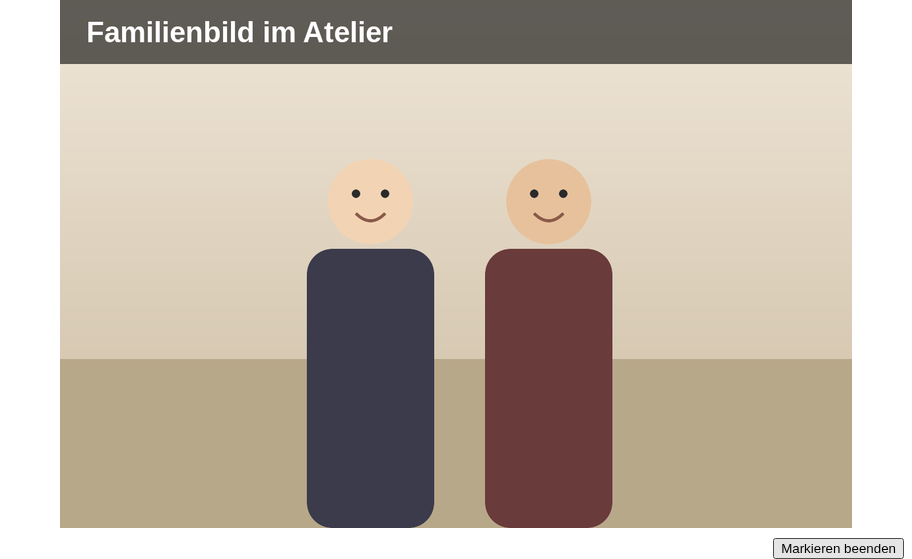
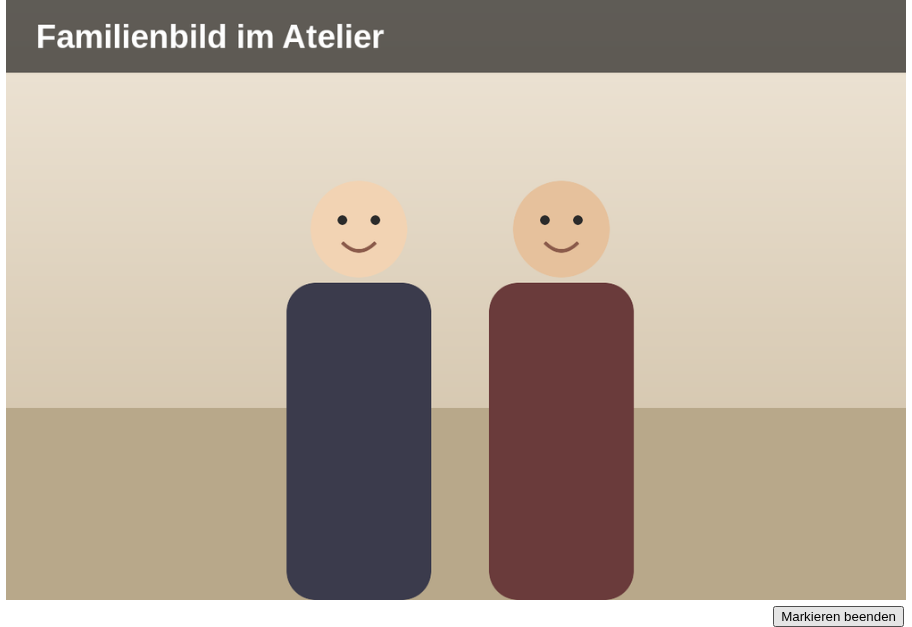
describe the photo page's fit and zoom in the handbook
The modus fit-and-zoom change added the toolbar buttons -, Einpassen,
100 % and +, keys, Ctrl/Cmd + wheel and drag-to-pan. The persons page
gains a section on them and a tagging tip (zoom in for small faces; in
tagging mode only wheel and scrollbars pan). Shots 11, 17 and 18 are
re-shot because the photo page changed; the other re-shot files were
churn and stay as committed.

Changed region(s): [[0.0, 0.0, 1.0, 1.0], [0.4605, 0.4562, 0.5526, 0.9123], [0.3377, 0.3345, 0.4605, 0.4562]]

diff --git a/handbuch/05-personen.html b/handbuch/05-personen.html
@@ -46,6 +46,41 @@
   neu ziehen.
 </p>
 
+<h3>Das Foto vergrößern</h3>
+
+<p>
+  Die Fotoseite zeigt jedes Foto zunächst so groß, dass es die Fläche links neben den Angaben
+  ausfüllt. Kleine Fotos werden dafür hochgerechnet und wirken etwas weich. In der Leiste über
+  dem Foto stehen vier Schaltflächen:
+</p>
+
+<ul>
+  <li>
+    <strong>+</strong> und <strong>-</strong> vergrößern und verkleinern in kleinen
+    Schritten, höchstens bis zur vierfachen Originalgröße.
+  </li>
+  <li>
+    <strong>Einpassen</strong> kehrt zur Ausgangsgröße zurück.
+  </li>
+  <li>
+    <strong>100 %</strong> zeigt das Foto in Originalgröße.
+  </li>
+</ul>
+
+<p>
+  Dasselbe geht mit den Tasten <strong>+</strong>, <strong>-</strong> und <strong>0</strong>
+  (Einpassen) sowie mit gedrückter <strong>Strg</strong>-Taste (auf dem Mac
+  <strong>Cmd</strong>) und dem Mausrad über dem Foto. Ein vergrößertes Foto lässt sich mit
+  gedrückter Maustaste verschieben, mit dem Mausrad oder mit den Bildlaufleisten. Solange es
+  vergrößert ist, blättert ein Klick ins Foto nicht zum nächsten Foto. Die Rahmen der Personen
+  wandern beim Vergrößern mit. Das nächste Foto erscheint wieder eingepasst.
+</p>
+
+<p>
+  Auf einem Tablet oder Smartphone gibt es nur <strong>Einpassen</strong> und
+  <strong>100 %</strong>. Dort wird das Foto wie gewohnt mit zwei Fingern vergrößert.
+</p>
+
 <h3>Eine Person markieren</h3>
 
 <ol>
@@ -74,8 +109,8 @@
     unter der Liste lautet <em>Enter übernimmt - Esc bricht ab</em>.
   </li>
   <li>
-    Der Name steht sofort in der Zeile <strong>Personen</strong> in den Angaben neben dem Foto,
-    vorerst als einfacher Text ohne Verweis. Der Markierungsmodus bleibt offen, das nächste
+    Der Name steht sofort in der Zeile <strong>Personen</strong> in den Angaben rechts neben dem
+    Foto, vorerst als einfacher Text ohne Verweis. Der Markierungsmodus bleibt offen, das nächste
     Gesicht lässt sich gleich markieren.
   </li>
 </ol>
@@ -94,6 +129,14 @@
   <img src="assets/screenshots/19-personen-auswahl.png" alt="Die Auswahl mit dem Eintrag zum Anlegen einer neuen Person" />
   <figcaption>Ein noch unbekannter Name wird über Anlegen "..." neu angelegt.</figcaption>
 </figure>
+
+<div class="hinweis">
+  <p>
+    Ein kleines Gesicht lässt sich genauer markieren, wenn das Foto vorher vergrößert wird. Im
+    Markierungsmodus zieht die gedrückte Maustaste ein Rechteck auf, das vergrößerte Foto lässt
+    sich dann nur mit dem Mausrad oder den Bildlaufleisten verschieben.
+  </p>
+</div>
 
 <div class="hinweis">
   <p>

diff --git a/handbuch/index.html b/handbuch/index.html
@@ -55,7 +55,8 @@
   </li>
   <li>
     <a href="05-personen.html">5. Personen auf Fotos markieren</a><br />
-    Ein Rechteck über ein Gesicht ziehen, die Person benennen und nach Personen suchen.
+    Markierungen ansehen, das Foto vergrößern, ein Rechteck über ein Gesicht ziehen, die Person
+    benennen und nach Personen suchen.
   </li>
 </ul>
 

diff --git a/docs/agents/TESTING.md b/docs/agents/TESTING.md
@@ -879,6 +879,7 @@ than accumulating. Nothing is marked done on prose alone.
 | 2026-10-04 | The handbook's new person-tagging text (`handbuch/05-personen.html`, step 7 and the paragraph under *Abbrechen und löschen*) read by hand against what the live-row change ships: the name appears in Personen as plain text right after a save and tagging mode stays open (`renderPersonRow()` in `editor.js`, called from both write callbacks); deleting the last face hides the row (`personRow.hidden = names.length === 0`); Esc with a draft open only discards it; leaving the mode reloads only after a successful add or delete (`reloadAfterChange()` gates on `changed`); links and the Schlagworte entry arrive with that reload. No screenshot shows the info box (every persons shot is `#persons-stage` or `#persons-picker`), so nothing was re-shot. | Not replaceable: whether prose describes behaviour has no oracle. The behaviour itself is witnessed by `editor.spec.js` (live row, reload on exit, no reload without a change). |
 | 2026-10-05 | The handbook's hover-names text (`handbuch/05-personen.html`, paragraphs under *Vorhandene Markierungen ansehen*, caption and `alt` of `16-personen-boxen.png`) read by hand against what the hover-only change ships: boxes without names while the photo is hovered, a name only while the pointer is inside its box (`.person-box-active` set by the hit-test in `overlay.js`), the name links to the person's photos, and the Personen row as the only place a touch device shows names. `16-personen-boxen.png` re-shot with `shoot.js` aiming at the centre of the leftmost box of the demo photo, and looked at: both boxes drawn, only *Anna Beispiel* named. `shoot.js` itself refuses the shot unless exactly one label is visible after every stage transition has finished. The other 19 shots were reverted as churn (sizes differ from the committed ones because of the modus fit-to-area change, the content does not). | Not replaceable: whether prose describes behaviour has no oracle. The behaviour is witnessed by the persons E2E suite (task 02's hover specs); the one-name precondition of the shot by `shoot.js`. |
 | 2026-10-05 | Whether the hover-names text under *Vorhandene Markierungen ansehen* reads naturally in German: critical read by a reviewing agent, checked against the screenshot. Fixed: a redundant opening sentence and Maus/Mauszeiger mixing, *Telefon* to *Smartphone*, *rechts neben dem Foto* as elsewhere on the page, an `alt` text whose subject made the pointer show the name (and named a pointer the shot does not show), a caption giving a frame *seinen* name. The name's position is *am unteren Rand des Rahmens*, not *im Rahmen*: on a box shorter than its label the name overhangs (`f4a13a462`). | Not replaceable: natural German has no oracle. |
+| 2026-10-05 | The handbook's new section *Das Foto vergrößern* and the tagging tip in `handbuch/05-personen.html` read by hand against what the modus fit-and-zoom change ships (`themes/modus/js/photo.zoom.js`, `picture_zoom_buttons.tpl`, `photo.zoom.css`): fit on open with small photos upscaled, the buttons `-`, `Einpassen`, `100 %`, `+` in the toolbar above the photo, steps of x1.25 up to 400 % of the original, keys `+` `-` `0`, Ctrl/Cmd + wheel over the photo, drag-to-pan except in tagging mode, no click navigation while zoomed, nothing remembered between photos, only `Einpassen` and `100 %` on the narrow layout. Shots 11, 17 and 18 re-shot because the photo page changed (zoom buttons, fitted photo); the other re-shot files reverted as churn. `check.php` counts U+2212 as an emoji, so the minus button is written as `-`. | Not replaceable: whether prose describes behaviour has no oracle. The behaviour is witnessed by the persons E2E suite (`picture-fit`, `picture-zoom`, `picture-pan` specs). |
 
 ### Open — no oracle, so no test
 
